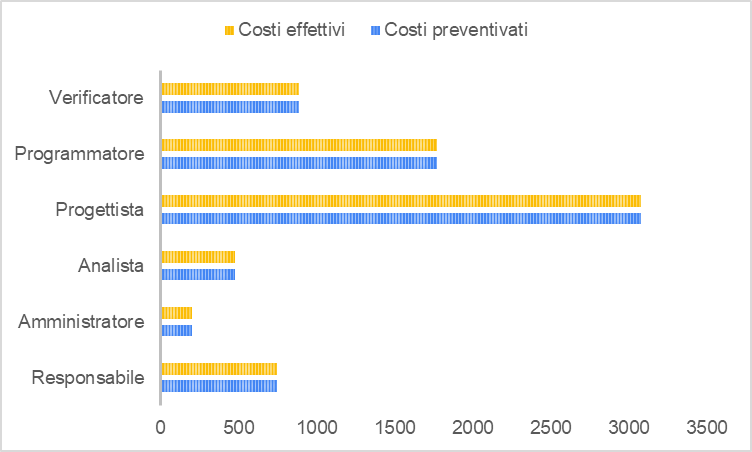
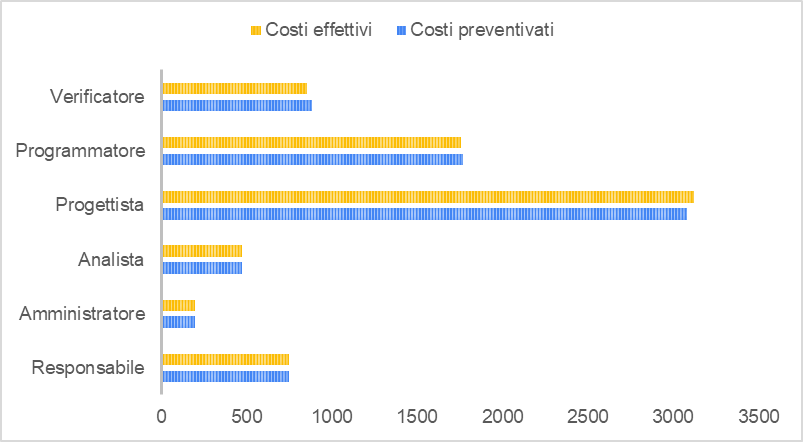
fix

diff --git a/03-RQ/Esterni/Piano_di_progetto/res/preventivo-consuntivo.tex b/03-RQ/Esterni/Piano_di_progetto/res/preventivo-consuntivo.tex
@@ -801,9 +801,9 @@ Seguiranno quindi le conclusioni con le motivazioni delle eventuali differenze e
 \subsection{Periodo di progettazione di dettaglio e codifica}
 La tabella riporta il numero di ore effettivamente svolte dal gruppo e il rispettivo costo con le eventuali differenze rilevate rispetto al preventivo
 \begin{longtable} {							
-		>{}p{40mm}  
-		>{}p{20mm}	
-		>{}p{28mm}			
+		>{}p{96mm}  
+		>{}p{16mm}
+		>{}p{16mm}			
 	}			
 	\rowcolor{gray!50}
 	
@@ -811,12 +811,13 @@ La tabella riporta il numero di ore effettivamente svolte dal gruppo e il rispet
 	Responsabile              & 25           & 750\euro             \TBstrut \\
 	Amministratore            & 10           & 200\euro             \TBstrut \\
 	Analista                  & 19           & 475\euro             \TBstrut \\
-	Progettista               & 140          & 3080\euro            \TBstrut \\
-	Programmatore             & 118          & 1770\euro            \TBstrut \\
-	Verificatore              & 59           & 885\euro             \TBstrut \\
-	\textbf{Totale Preventivo}& 371          & 7160\euro            \TBstrut \\	
-	\textbf{Totale Consuntivo}& 371          & 7160\euro            \TBstrut \\	
-	\textbf{Differenza Totale}& +0           & +0\euro              \TBstrut \\
+	Progettista               & 142          & 3124\euro            \TBstrut \\
+	Programmatore             & 117          & 1755\euro            \TBstrut \\
+	Verificatore              & 57           & 855\euro             \TBstrut \\
+	\textbf{Totale Preventivo}& 378          & 7305\euro            \TBstrut \\	
+	\textbf{Totale Consuntivo}& 370          & 7159\euro            \TBstrut \\	
+	\textbf{Differenza Totale rispetto alla pianificazione aggiornata}& -1          & -1\euro              \TBstrut \\
+	\textbf{Differenza Totale rispetto alla pianificazione iniziale}& -8           & -146\euro              \TBstrut \\
 	\rowcolor{white}
 	\caption{Numero di ore effettivamente svolte con rispettivo costo e differenze rispetto al preventivo}	
 \end{longtable}
@@ -834,12 +835,12 @@ Rappresentate anche dai grafici:
 
 
 \subsubsection{Conclusioni generali}
-Il bilancio risulta in pari perché le correzioni effettuate nel periodo precedente hanno portato il gruppo a riuscire a rientrare nelle ore di lavoro preventivate. Questo miglioramento si può attribuire all'esperienza maturata nel periodo precedente che ha più in comune con questo periodo che con il periodo di analisi.
-
+Il bilancio risulta positivo perché l'aggiornamento della pianificazione svolto in seguito al precedente consuntivo di periodo ci ha permesso di recuperare le ore in eccesso del periodo precedente.
 \subsubsection{Preventivo a finire generale}
-Le modifiche apportate alla pianificazione nel periodo precedente ci hanno permesso di avere un bilancio in pari, questo ci permette di presentarci ai proponenti con un preventivo finale non superiore a quello iniziale.
+Le modifiche apportate alla pianificazione ci hanno permesso di avere un bilancio totale in pari, questo ci permette di presentarci ai proponenti con un preventivo finale non superiore a quello iniziale.
 
 \subsubsection{Analisi dei singoli incrementi}
+Di seguito viene riportata l'analisi dell'andamento del progetto\glosp. Al termine di ogni incremento individuato nella pianificazione è stato svolto un consuntivo di periodo per poter monitorare la situazione ed eventualmente apportare delle modifiche ai periodi successivi in modo da presentarci ai proponenti con un preventivo finale non dissimile da quanto pianificato.
 \paragraph*{Incremento 3} \mbox{} \\
 La tabella riporta il numero di ore effettivamente svolte dal gruppo e il rispettivo costo con le eventuali differenze rilevate rispetto al preventivo
 \begin{longtable} {							
@@ -878,7 +879,7 @@ Rappresentate anche dai grafici:
 Il bilancio risulta positivo perché le ore effettivamente svolte nei ruoli di progettista sono state minori di quelle previste dal preventivo, mentre al contrario le ore effettivamente svolte nei ruoli di verificatore sono state meno di quelle previste dal preventivo.
 Le motivazioni che hanno portato a queste variazioni sono le seguenti:
 \begin{itemize}
-	\item \textbf{Progettista}: la studio dell'architettura software è stata più complessa del previsto in particolare nell'individuazione dei pattern architetturali;
+	\item \textbf{Progettista}: la studio dell'architettura software è stata più complessa del previsto in particolare per quanto riguarda l'individuazione dei pattern architetturali;
 	\item \textbf{Verificatore}: il rallentamento dello studio dell'architettura software ha portato ad avere meno materiale da verificare in questo periodo e quindi meno lavoro per i verificatori.
 \end{itemize}
 
@@ -896,15 +897,15 @@ La tabella riporta il numero di ore effettivamente svolte dal gruppo e il rispet
 	\rowcolor{gray!50}
 	
 	\textbf{Ruolo}            & \textbf{Ore} & \textbf{Costo}       \TBstrut \\
-	Responsabile              & 5(+1)        & 150\euro(+30\euro)   \TBstrut \\
+	Responsabile              & 4            & 120\euro             \TBstrut \\
 	Amministratore            & 1            & 20\euro              \TBstrut \\
 	Analista                  & 9            & 225\euro             \TBstrut \\
-	Progettista               & 20           & 440\euro             \TBstrut \\
+	Progettista               & 18(-2)       & 396\euro(-44\euro)   \TBstrut \\
 	Programmatore             & 32           & 480\euro             \TBstrut \\
-	Verificatore              & 15(-2)       & 225\euro(-30\euro)   \TBstrut \\
+	Verificatore              & 17           & 255\euro             \TBstrut \\
 	\textbf{Totale Preventivo}& 83           & 1540\euro            \TBstrut \\	
-	\textbf{Totale Consuntivo}& 82           & 1540\euro            \TBstrut \\	
-	\textbf{Differenza Totale}& -1           & +0\euro              \TBstrut \\
+	\textbf{Totale Consuntivo}& 81           & 1496\euro            \TBstrut \\	
+	\textbf{Differenza Totale}& -2           & -44\euro             \TBstrut \\
 	\rowcolor{white}
 	\caption{Numero di ore effettivamente svolte con rispettivo costo e differenze rispetto al preventivo}	
 \end{longtable}
@@ -924,12 +925,11 @@ Rappresentate anche dai grafici:
 Il bilancio risulta in pari perché le ore sebbene le ore totali svolte siano inferiori a quanto previsto nel preventivo perché le ore nei ruoli di responsabile hanno superato le ore previste dal preventivo, mentre al contrario le ore effettivamente svolte nei ruoli di verificatore sono state meno di quelle previste dal preventivo.
 Le motivazioni che hanno portato a queste variazioni sono le seguenti:
 \begin{itemize}
-	\item \textbf{Responsabile}: la preparazione delle domande da porre ai committenti si è rivelata essere più laboriosa del previsto;
-	\item \textbf{Verificatore}: il rallentamento dello studio dell'architettura software ha portato ad avere meno materiale da verificare in questo periodo e quindi meno lavoro per i verificatori.
+	\item \textbf{Progettista}: in seguito al maggior lavoro svolto dal progettista nel periodo precedente, è stato necessario un minor impegno orario durante lo sviluppo dell'incremento 4.
 \end{itemize}
 
 \subparagraph*{Preventivo a finire} \mbox{} \\
-Il bilancio risulta in pari in quanto i costi che abbiamo effettivamente rilevato eguagliano quelli che erano stati preventivati, anche se abbiamo rilevato che per il secondo periodo di seguito abbiamo rilevato un numero minore delle ore di verificatore rispetto a quelle in preventivo. Per questo non è necessario modificare i preventivi riguardanti i periodi rimanenti.
+Il bilancio risulta positivo in quanto i costi che abbiamo effettivamente rilevato sono minori di quelli che erano stati preventivati. Per questo non è necessario modificare i preventivi riguardanti i periodi rimanenti e le risorse risparmiate vengono mantenute per sopperire ad eventuali rallentamenti che potrebbero sorgere o per implementare i requisiti opzionali.
 
 
 
@@ -943,15 +943,15 @@ La tabella riporta il numero di ore effettivamente svolte dal gruppo e il rispet
 	\rowcolor{gray!50}
 	
 	\textbf{Ruolo}            & \textbf{Ore} & \textbf{Costo}       \TBstrut \\
-	Responsabile              & 3(-1)        & 90\euro(-30\euro)    \TBstrut \\
+	Responsabile              & 4            & 120\euro    \TBstrut \\
 	Amministratore            & 2            & 40\euro              \TBstrut \\
 	Analista                  & 0            & 0\euro               \TBstrut \\
 	Progettista               & 20           & 440\euro             \TBstrut \\
 	Programmatore             & 10           & 150\euro             \TBstrut \\
 	Verificatore              & 4            & 60\euro              \TBstrut \\
 	\textbf{Totale Preventivo}& 40           & 810\euro             \TBstrut \\	
-	\textbf{Totale Consuntivo}& 39           & 780\euro             \TBstrut \\	
-	\textbf{Differenza Totale}& -1           & -30\euro             \TBstrut \\
+	\textbf{Totale Consuntivo}& 40           & 810\euro             \TBstrut \\	
+	\textbf{Differenza Totale}& 0            & 0\euro             \TBstrut \\
 	\rowcolor{white}
 	\caption{Numero di ore effettivamente svolte con rispettivo costo e differenze rispetto al preventivo}	
 \end{longtable}
@@ -968,14 +968,11 @@ Rappresentate anche dai grafici:
 \end{figure}
 
 \subparagraph*{Analisi degli scostamenti} \mbox{} \\
-Il bilancio risulta positivo perché le ore effettivamente svolte nei ruoli di responsabile hanno sono state minori di quelle previste dal preventivo.
-Le motivazioni che hanno portato a queste variazioni sono le seguenti:
-\begin{itemize}
-	\item \textbf{Responsabile}: il committente Cardin ci ha chiesto di posticipare l'incontro richiesto a dopo che avesse pubblicato la sua lezione riguardante i design pattern architetturali, perciò il responsabile ha avuto meno lavoro.
-\end{itemize}
+Il bilancio risulta in pari in quanto i costi che abbiamo effettivamente rilevato eguagliano quelli che erano stati preventivati, in questo periodo infatti non è sorta nessuna problematica.
+
 
 \subparagraph*{Preventivo a finire} \mbox{} \\
-Il bilancio risulta positivo in quanto i costi che abbiamo effettivamente rilevato sono inferiori a quelli che erano stati preventivati. Il denaro risparmiato verrà tenuto da parte per i prossimi periodi per far fronte ad eventuali ritardi o per implementare i requisiti opzionali.
+Il bilancio risulta in pari in quanto i costi che abbiamo effettivamente rilevato eguagliano quelli che erano stati preventivati, non è quindi necessaria alcuna modifica alla pianificazione degli incrementi futuri.
 
 
 
@@ -989,15 +986,15 @@ La tabella riporta il numero di ore effettivamente svolte dal gruppo e il rispet
 	\rowcolor{gray!50}
 	
 	\textbf{Ruolo}            & \textbf{Ore} & \textbf{Costo}       \TBstrut \\
-	Responsabile              & 3(-1)        & 90\euro(-30\euro)    \TBstrut \\
+	Responsabile              & 4            & 120\euro    \TBstrut \\
 	Amministratore            & 2            & 40\euro              \TBstrut \\
 	Analista                  & 0            & 0\euro               \TBstrut \\
 	Progettista               & 11(+1)       & 242\euro(+22\euro)   \TBstrut \\
 	Programmatore             & 8            & 120\euro             \TBstrut \\
 	Verificatore              & 3            & 45\euro              \TBstrut \\
 	\textbf{Totale Preventivo}& 27           & 545\euro             \TBstrut \\	
-	\textbf{Totale Consuntivo}& 27           & 537\euro             \TBstrut \\	
-	\textbf{Differenza Totale}& +0           & -8\euro              \TBstrut \\
+	\textbf{Totale Consuntivo}& 28           & 567\euro             \TBstrut \\	
+	\textbf{Differenza Totale}& +1           & +22\euro              \TBstrut \\
 	\rowcolor{white}
 	\caption{Numero di ore effettivamente svolte con rispettivo costo e differenze rispetto al preventivo}	
 \end{longtable}
@@ -1014,15 +1011,14 @@ Rappresentate anche dai grafici:
 \end{figure}
 
 \subparagraph*{Analisi degli scostamenti} \mbox{} \\
-Il bilancio risulta positivo perché le ore effettivamente svolte nei ruoli di responsabile sono state minori rispetto a quelle previste dal preventivo, mentre al contrario le ore effettivamente svolte nel ruolo di progettista sono state maggiori di quelle previste dal preventivo.
+Il bilancio risulta negativo perché le ore effettivamente svolte nel ruolo di progettista sono state maggiori rispetto a quelle previste dal preventivo.
 Le motivazioni che hanno portato a queste variazioni sono le seguenti:
 \begin{itemize}
-	\item \textbf{Responsabile}: la redazione delle domande da porre al committente Cardin è stata meno complessa del previsto dopo la lezione sui design pattern architetturali;
-	\item \textbf{Progettista}: la lezione sui design pattern e la risposta del committente Cardin ha portato i progettisti a cambiare parte della struttura del lavoro fatto fino a quel momento.
+	\item \textbf{Progettista}: la lezione sui design pattern e la risposta del committente prof. Cardin ha portato i progettisti a cambiare parte della struttura del lavoro fatto fino a quel momento ed è stato quindi necessario un impegno orario maggiore per i progettisti.
 \end{itemize}
 
 \subparagraph*{Preventivo a finire} \mbox{} \\
-Il bilancio risulta positivo in quanto i costi che abbiamo effettivamente rilevato sono inferiori a quelli che erano stati preventivati. Il denaro risparmiato verrà tenuto da parte per i prossimi periodi per far fronte ad eventuali ritardi o per implementare i requisiti opzionali.
+Il bilancio risulta negativo in quanto i costi che abbiamo effettivamente rilevato sono superiori a quelli che erano stati preventivati. Il denaro impiegato in più non verrà fatto risultare nel preventivo a finire in quanto verrà preso da ciò che è stato risparmiato nei periodi precedenti.
 
 
 \paragraph*{Incremento 14} \mbox{} \\
@@ -1038,12 +1034,12 @@ La tabella riporta il numero di ore effettivamente svolte dal gruppo e il rispet
 	Responsabile              & 4            & 120\euro             \TBstrut \\
 	Amministratore            & 2            & 40\euro              \TBstrut \\
 	Analista                  & 0            & 0\euro               \TBstrut \\
-	Progettista               & 30           & 660\euro             \TBstrut \\
-	Programmatore             & 30(+2)       & 450\euro(+30\euro)   \TBstrut \\
+	Progettista               & 34(+4)       & 748\euro             \TBstrut \\
+	Programmatore             & 27(-1)       & 405\euro(-30\euro)   \TBstrut \\
 	Verificatore              & 14           & 210\euro             \TBstrut \\
 	\textbf{Totale Preventivo}& 78           & 1450\euro            \TBstrut \\	
-	\textbf{Totale Consuntivo}& 80           & 1480\euro            \TBstrut \\	
-	\textbf{Differenza Totale}& +2           & +30\euro             \TBstrut \\
+	\textbf{Totale Consuntivo}& 81           & 1523\euro            \TBstrut \\	
+	\textbf{Differenza Totale}& +3           & +73\euro             \TBstrut \\
 	\rowcolor{white}
 	\caption{Numero di ore effettivamente svolte con rispettivo costo e differenze rispetto al preventivo}	
 \end{longtable}
@@ -1063,10 +1059,10 @@ Rappresentate anche dai grafici:
 Il bilancio risulta negativo perché le ore effettivamente svolte nei ruoli di programmatore sono state maggiori rispetto a quelle previste dal preventivo.
 Le motivazioni che hanno portato a queste variazioni sono le seguenti:
 \begin{itemize}
-	\item \textbf{Programmatore}: un aggiornamento automatico del toolkit di Grafana\glosp ha causato la non compilazione del plug-in, è quindi stato necessario trovarne la causa e correggere il codice.
+	\item \textbf{Progettista}: in seguito alla presentazione della Product Baseline, il committente prof. Cardin ha segnalato alcuni errori ed è quindi sorta la necessità di modificare alcune parti dell'architettura. Per questo motivo è stato necessario un impegno orario maggiore da parte del progettista.
 \end{itemize}
 \subparagraph*{Preventivo a finire} \mbox{} \\
-Il bilancio risulta negativo in quanto i costi che abbiamo effettivamente rilevato sono superiori a quelli che erano stati preventivati. Per fronteggiare questo problema abbiamo deciso di modificare la pianificazione dei prossimi periodi in modo da presentarci ai proponenti con un preventivo finale in linea con quello iniziale, in questo ci aiuta il fatto che nei periodi precedenti abbiamo speso meno di quanto preventivato.
+Il bilancio risulta negativo in quanto i costi che abbiamo effettivamente rilevato sono superiori a quelli che erano stati preventivati. Per fronteggiare questo problema abbiamo deciso di modificare la pianificazione dei prossimi periodi, andando a ridurre le ore del progettista, in modo da presentarci ai proponenti con un preventivo finale in linea con quello iniziale, in questo ci aiuta il fatto che nei periodi precedenti abbiamo speso meno di quanto preventivato.
 
 
 \paragraph*{Incremento 16} \mbox{} \\
@@ -1079,15 +1075,15 @@ La tabella riporta il numero di ore effettivamente svolte dal gruppo e il rispet
 	\rowcolor{gray!50}
 	
 	\textbf{Ruolo}            & \textbf{Ore} & \textbf{Costo}       \TBstrut \\
-	Responsabile              & 5(+1)        & 150\euro(+30\euro)   \TBstrut \\
+	Responsabile              & 4            & 120\euro             \TBstrut \\
 	Amministratore            & 1            & 20\euro              \TBstrut \\
 	Analista                  & 0            & 0\euro               \TBstrut \\
 	Progettista               & 8(-2)        & 176\euro(-44\euro)   \TBstrut \\
 	Programmatore             & 8            & 120\euro             \TBstrut \\
-	Verificatore              & 5(+2)        & 75\euro(+30\euro)    \TBstrut \\
+	Verificatore              & 3            & 45\euro              \TBstrut \\
 	\textbf{Totale Preventivo}& 26           & 525\euro             \TBstrut \\	
-	\textbf{Totale Consuntivo}& 27           & 541\euro             \TBstrut \\	
-	\textbf{Differenza Totale}& +1           & +16\euro             \TBstrut \\
+	\textbf{Totale Consuntivo}& 24           & 481\euro             \TBstrut \\	
+	\textbf{Differenza Totale}& -2           & -44\euro             \TBstrut \\
 	\rowcolor{white}
 	\caption{Numero di ore effettivamente svolte con rispettivo costo e differenze rispetto al preventivo}	
 \end{longtable}
@@ -1104,15 +1100,13 @@ Rappresentate anche dai grafici:
 \end{figure}
 
 \subparagraph*{Analisi degli scostamenti} \mbox{} \\
-Il bilancio risulta negativo perché le ore effettivamente svolte nei ruoli di responsabile e verificatore sono state maggiori rispetto a quelle previste dal preventivo, mentre al contrario le ore effettivamente svolte nel ruolo di progettista sono state meno di quelle previste dal preventivo.
+Il bilancio risulta positivo perché le ore effettivamente svolte nei ruolo di progettista sono state inferiori rispetto a quelle previste dal preventivo,
 Le motivazioni che hanno portato a queste variazioni sono le seguenti:
 \begin{itemize}
-	\item \textbf{responsabile}: il responsabile ha sostenuto una corrispondenza più importante del previsto con il proponente esterno \textit{Zucchetti}, poiché desiderava metterci in contatto con alcuni gruppi del secondo lotto per poterli aiutare nelle fasi del progetto che noi abbiamo già superato;
-	\item \textbf{verificatore}: il lavoro verifica è stato più complesso del previsto poiché ci si aspettava una mole di lavoro inferiore da verificare;
-	\item \textbf{progettista}: l'architettura si è stabilizzata abbastanza da necessitare meno lavoro del progettista.
+	\item \textbf{progettista}: il lavoro in più svolto nei precedenti periodi ha portato a meno lavoro per il progettista.
 \end{itemize}
 \subparagraph*{Preventivo a finire} \mbox{} \\
-Il bilancio risulta negativo in quanto i costi che abbiamo effettivamente rilevato sono superiori a quelli che erano stati preventivati. Per fronteggiare questo problema abbiamo deciso di modificare la pianificazione dei prossimi periodi in modo da presentarci ai proponenti con un preventivo finale in linea con quello iniziale, in questo ci aiuta il fatto che nei periodi precedenti abbiamo speso meno di quanto preventivato.
+Il bilancio risulta positivo in quanto i costi che abbiamo effettivamente rilevato sono inferiori a quelli che erano stati preventivati. Questi soldi risparmiati vengono utilizzati per coprire le spese in eccesso del periodo precedente.
 
 
 
